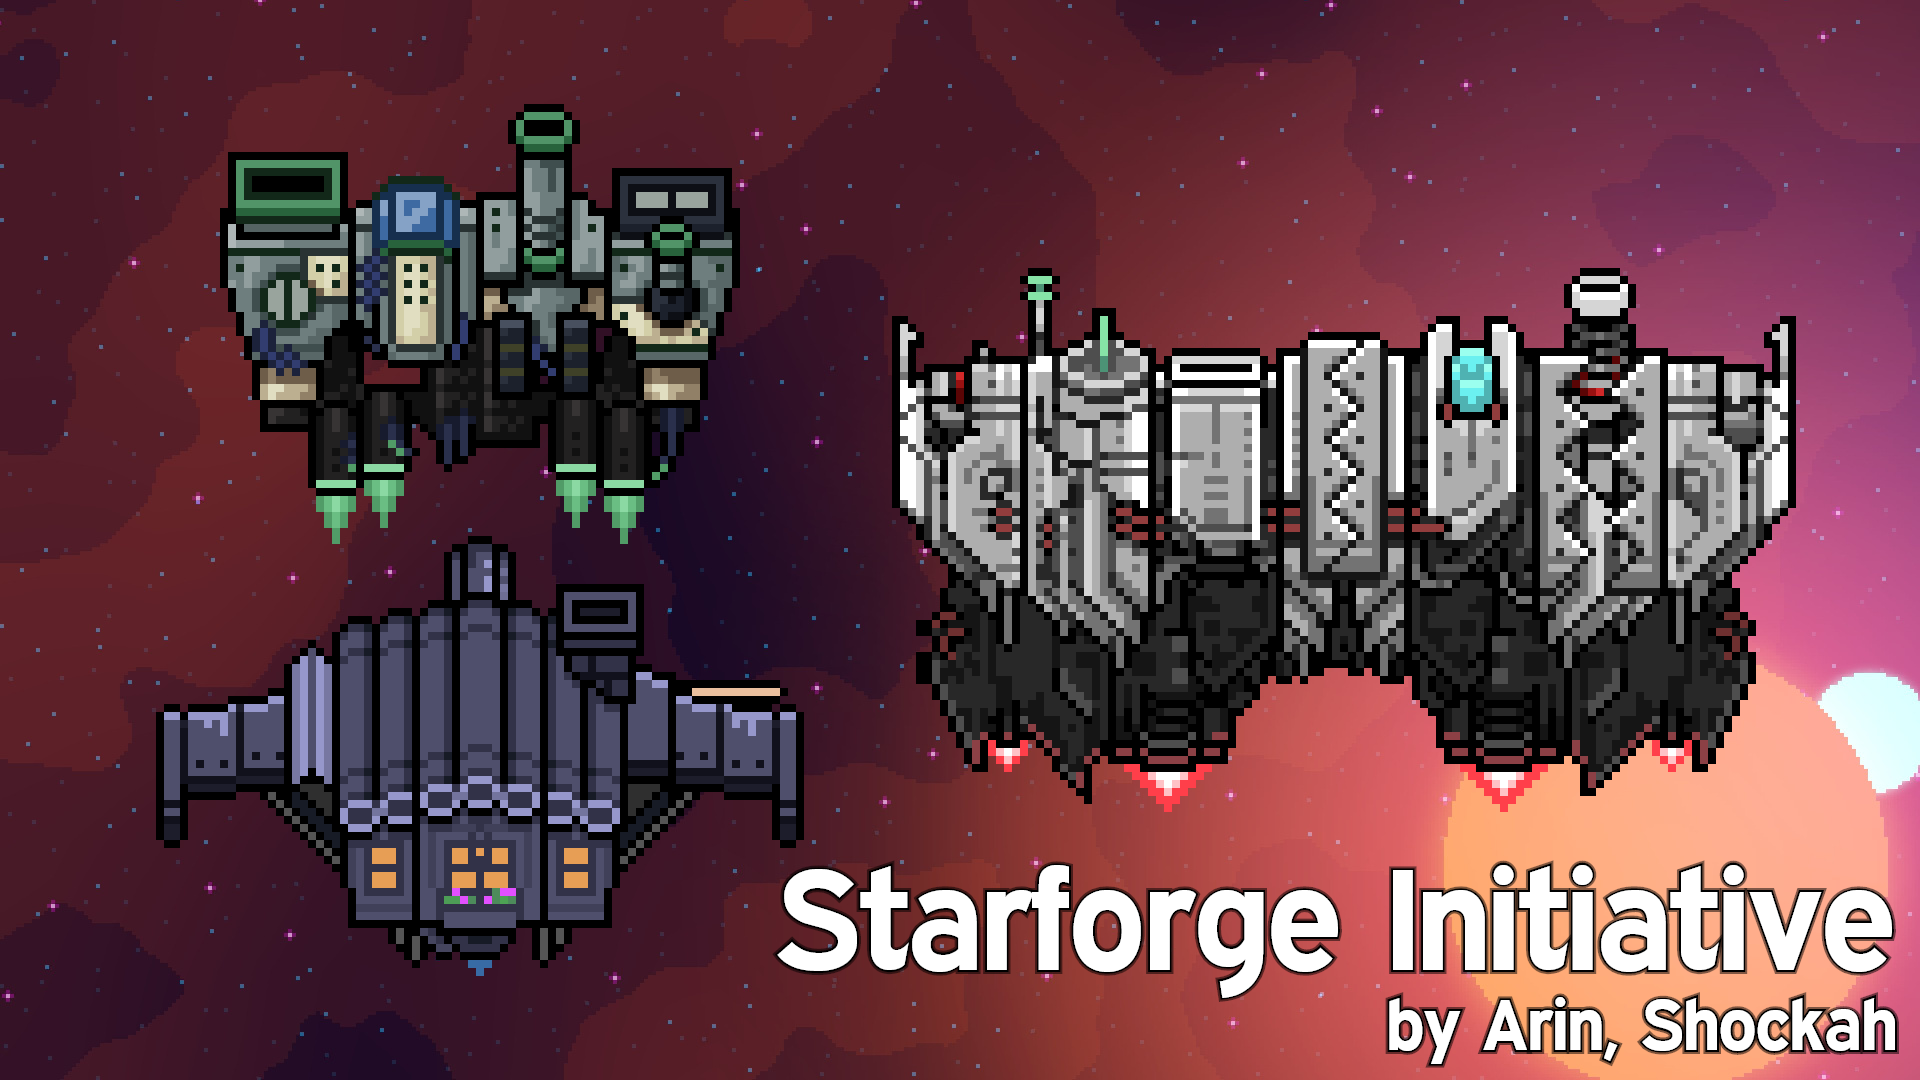
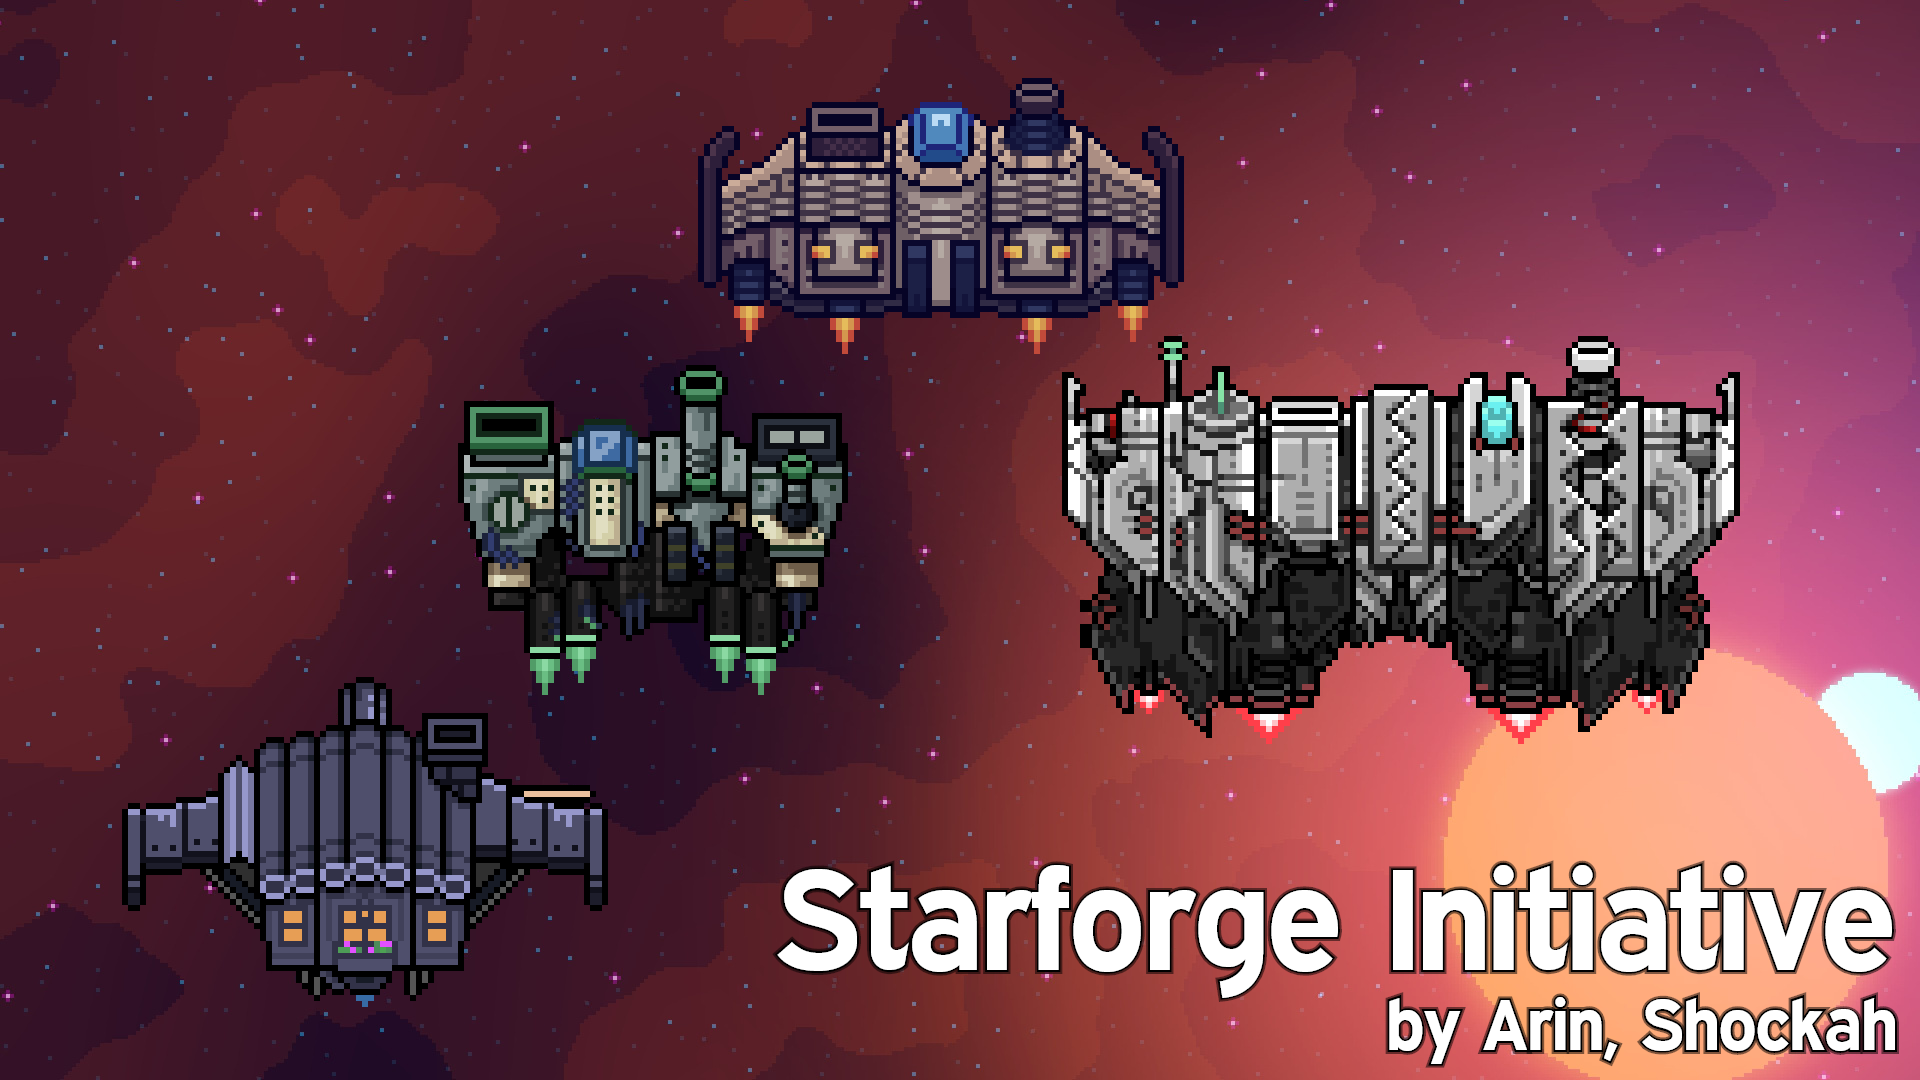
StarforgeInitiative: Version 1.3.0

diff --git a/_Media.StarforgeInitiative/Program.cs b/_Media.StarforgeInitiative/Program.cs
@@ -5,7 +5,7 @@ using SkiaSharp;
 
 // ReSharper disable ConvertToUsingDeclaration
 
-const int shipScale = 8;
+const int shipScale = 6;
 
 var imageInfo = new SKImageInfo(1920, 1080);
 var surface = SKSurface.Create(imageInfo);
@@ -16,6 +16,7 @@ var background = SKImage.FromEncodedData(Path.Combine(GetRootPath(), "assets", "
 var breadnaught = SKImage.FromEncodedData(Path.Combine(GetRootPath(), "assets", "Breadnaught.png"));
 var kepler = SKImage.FromEncodedData(Path.Combine(GetRootPath(), "assets", "Kepler.png"));
 var nemesis = SKImage.FromEncodedData(Path.Combine(GetRootPath(), "assets", "Nemesis.png"));
+var agni = SKImage.FromEncodedData(Path.Combine(GetRootPath(), "assets", "Agni.png"));
 
 canvas.Clear(SKColors.Empty);
 canvas.DrawImage(background, new SKRect(0, 0, imageInfo.Width, imageInfo.Height));
@@ -28,8 +29,8 @@ using (var paint = new SKPaint())
 		var sprite = breadnaught;
 		var width = sprite.Width * shipScale;
 		var height = sprite.Height * shipScale;
-		var originX = imageInfo.Width / 2 - (int)(imageInfo.Width * 0.25);
-		var originY = imageInfo.Height / 2 + (int)(imageInfo.Height * 0.2);
+		var originX = imageInfo.Width / 2 - (int)(imageInfo.Width * 0.31);
+		var originY = imageInfo.Height / 2 + (int)(imageInfo.Height * 0.28);
 		canvas.DrawImage(sprite, new SKRect(originX - width / 2, originY - height / 2, originX + width / 2, originY + height / 2), paint);
 	}
 	
@@ -37,8 +38,17 @@ using (var paint = new SKPaint())
 		var sprite = kepler;
 		var width = sprite.Width * shipScale;
 		var height = sprite.Height * shipScale;
-		var originX = imageInfo.Width / 2 - (int)(imageInfo.Width * 0.25);
-		var originY = imageInfo.Height / 2 - (int)(imageInfo.Height * 0.2);
+		var originX = imageInfo.Width / 2 - (int)(imageInfo.Width * 0.16);
+		var originY = imageInfo.Height / 2 - (int)(imageInfo.Height * 0.01);
+		canvas.DrawImage(sprite, new SKRect(originX - width / 2, originY - height / 2, originX + width / 2, originY + height / 2), paint);
+	}
+	
+	{
+		var sprite = agni;
+		var width = sprite.Width * shipScale;
+		var height = sprite.Height * shipScale;
+		var originX = imageInfo.Width / 2 - (int)(imageInfo.Width * 0.01);
+		var originY = imageInfo.Height / 2 - (int)(imageInfo.Height * 0.30);
 		canvas.DrawImage(sprite, new SKRect(originX - width / 2, originY - height / 2, originX + width / 2, originY + height / 2), paint);
 	}
 	
@@ -46,7 +56,7 @@ using (var paint = new SKPaint())
 		var sprite = nemesis;
 		var width = sprite.Width * shipScale;
 		var height = sprite.Height * shipScale;
-		var originX = imageInfo.Width / 2 + (int)(imageInfo.Width * 0.2);
+		var originX = imageInfo.Width / 2 + (int)(imageInfo.Width * 0.23);
 		var originY = imageInfo.Height / 2 - (int)(imageInfo.Height * 0.0);
 		canvas.DrawImage(sprite, new SKRect(originX - width / 2, originY - height / 2, originX + width / 2, originY + height / 2), paint);
 	}

diff --git a/StarforgeInitiative/docs/release-notes.md b/StarforgeInitiative/docs/release-notes.md
@@ -2,7 +2,8 @@
 
 # Release notes
 
-## Upcoming release
+## 1.3.0
+Released 6 January 2026.
 
 ### Agni
 * New ship!
